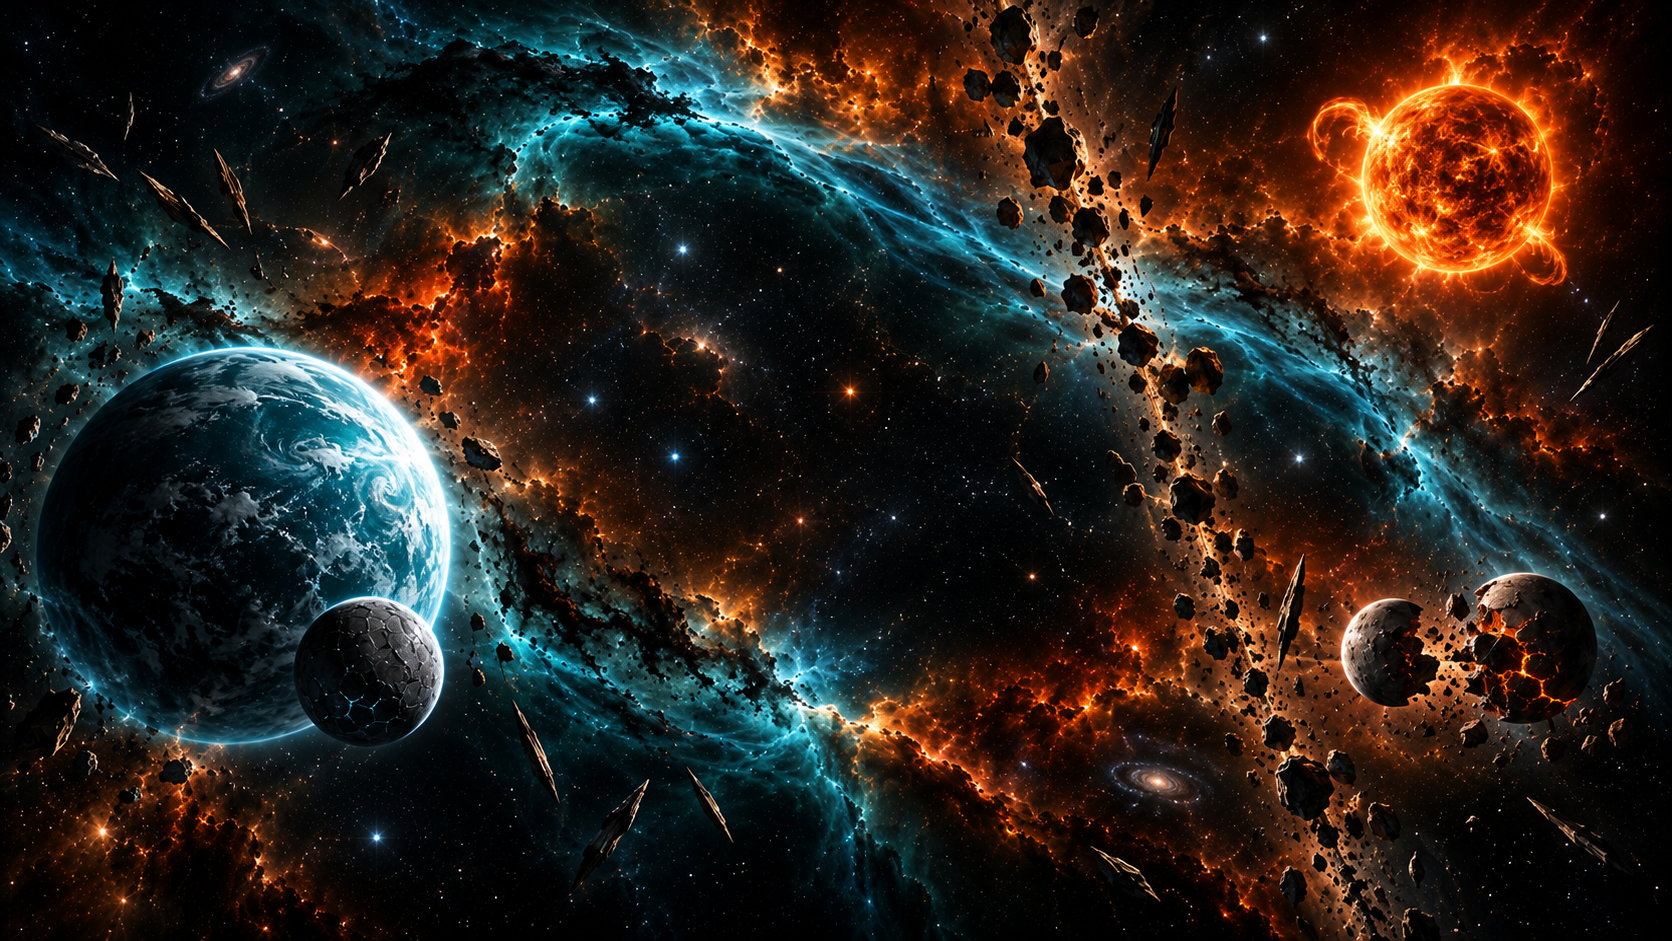
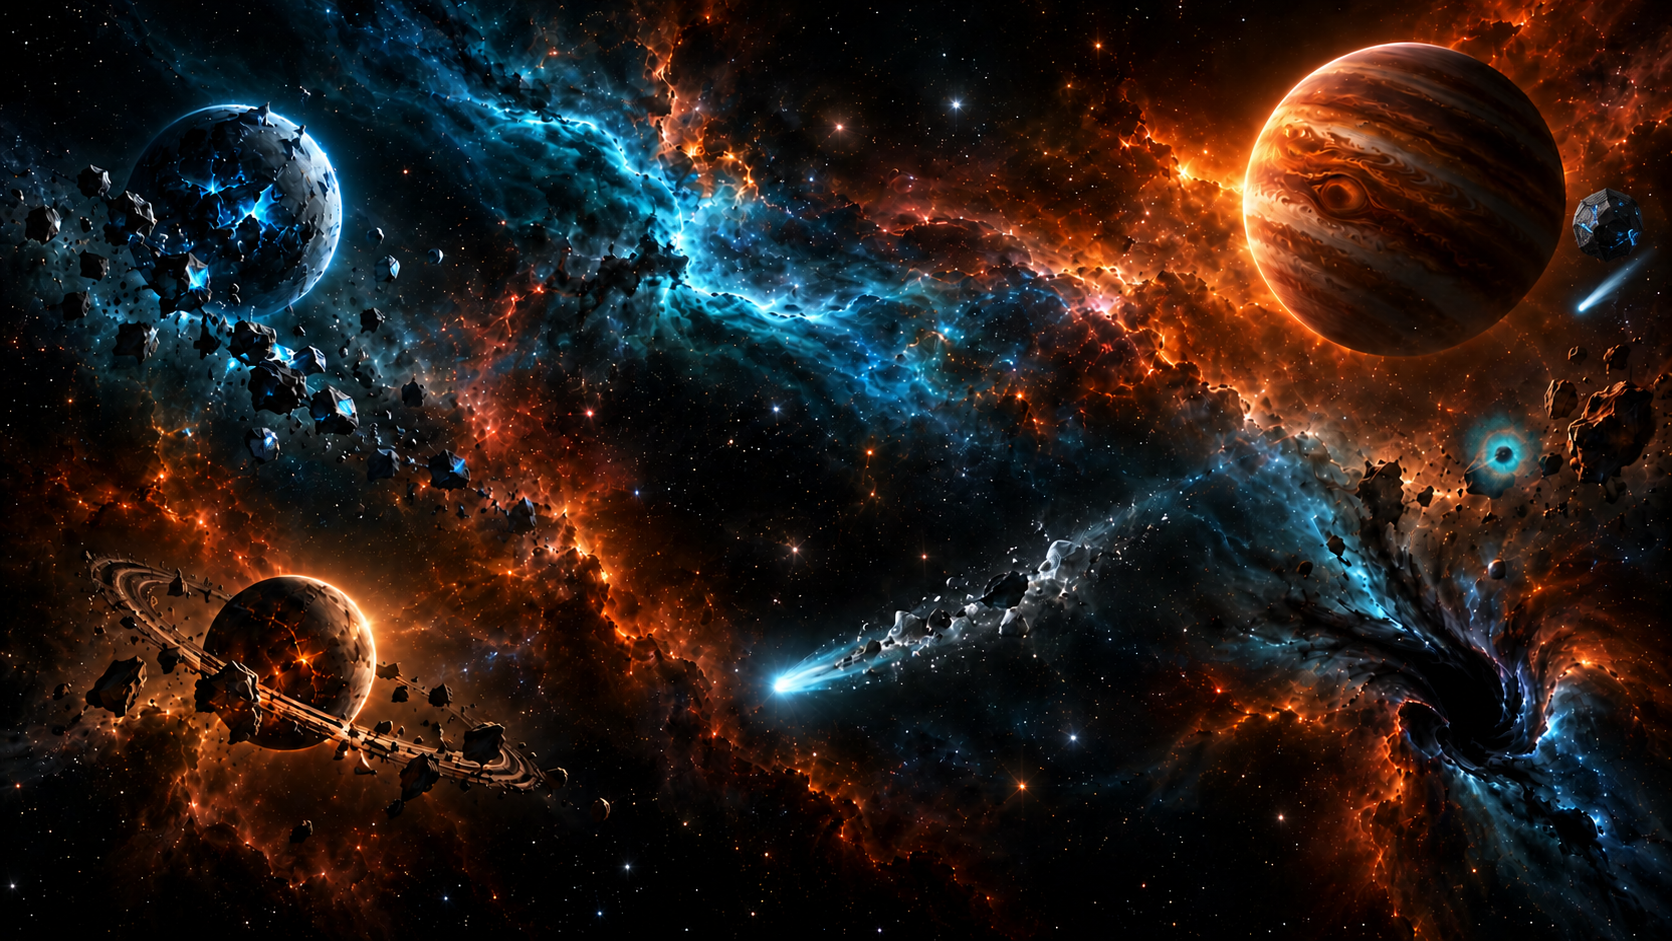
Replace repeated celestial bodies in both maps

diff --git a/src/App.jsx b/src/App.jsx
@@ -23,8 +23,8 @@ import {
 import { NAVE, NAVE_BY_ID } from "./data/nave.js";
 
 const MARIME_HARTA = 1260;
-const FUNDAL_HARTA_STANDARD = "assets/harta-standard-v2.png";
-const FUNDAL_HARTA_AETHER = "assets/harta-nebuloasa-aether-v2.png";
+const FUNDAL_HARTA_STANDARD = "assets/harta-standard-v3.png";
+const FUNDAL_HARTA_AETHER = "assets/harta-nebuloasa-aether-v3.png";
 const FUNDAL_MINI_STANDARD = FUNDAL_HARTA_STANDARD;
 const FUNDAL_MINI_AETHER = FUNDAL_HARTA_AETHER;
 
